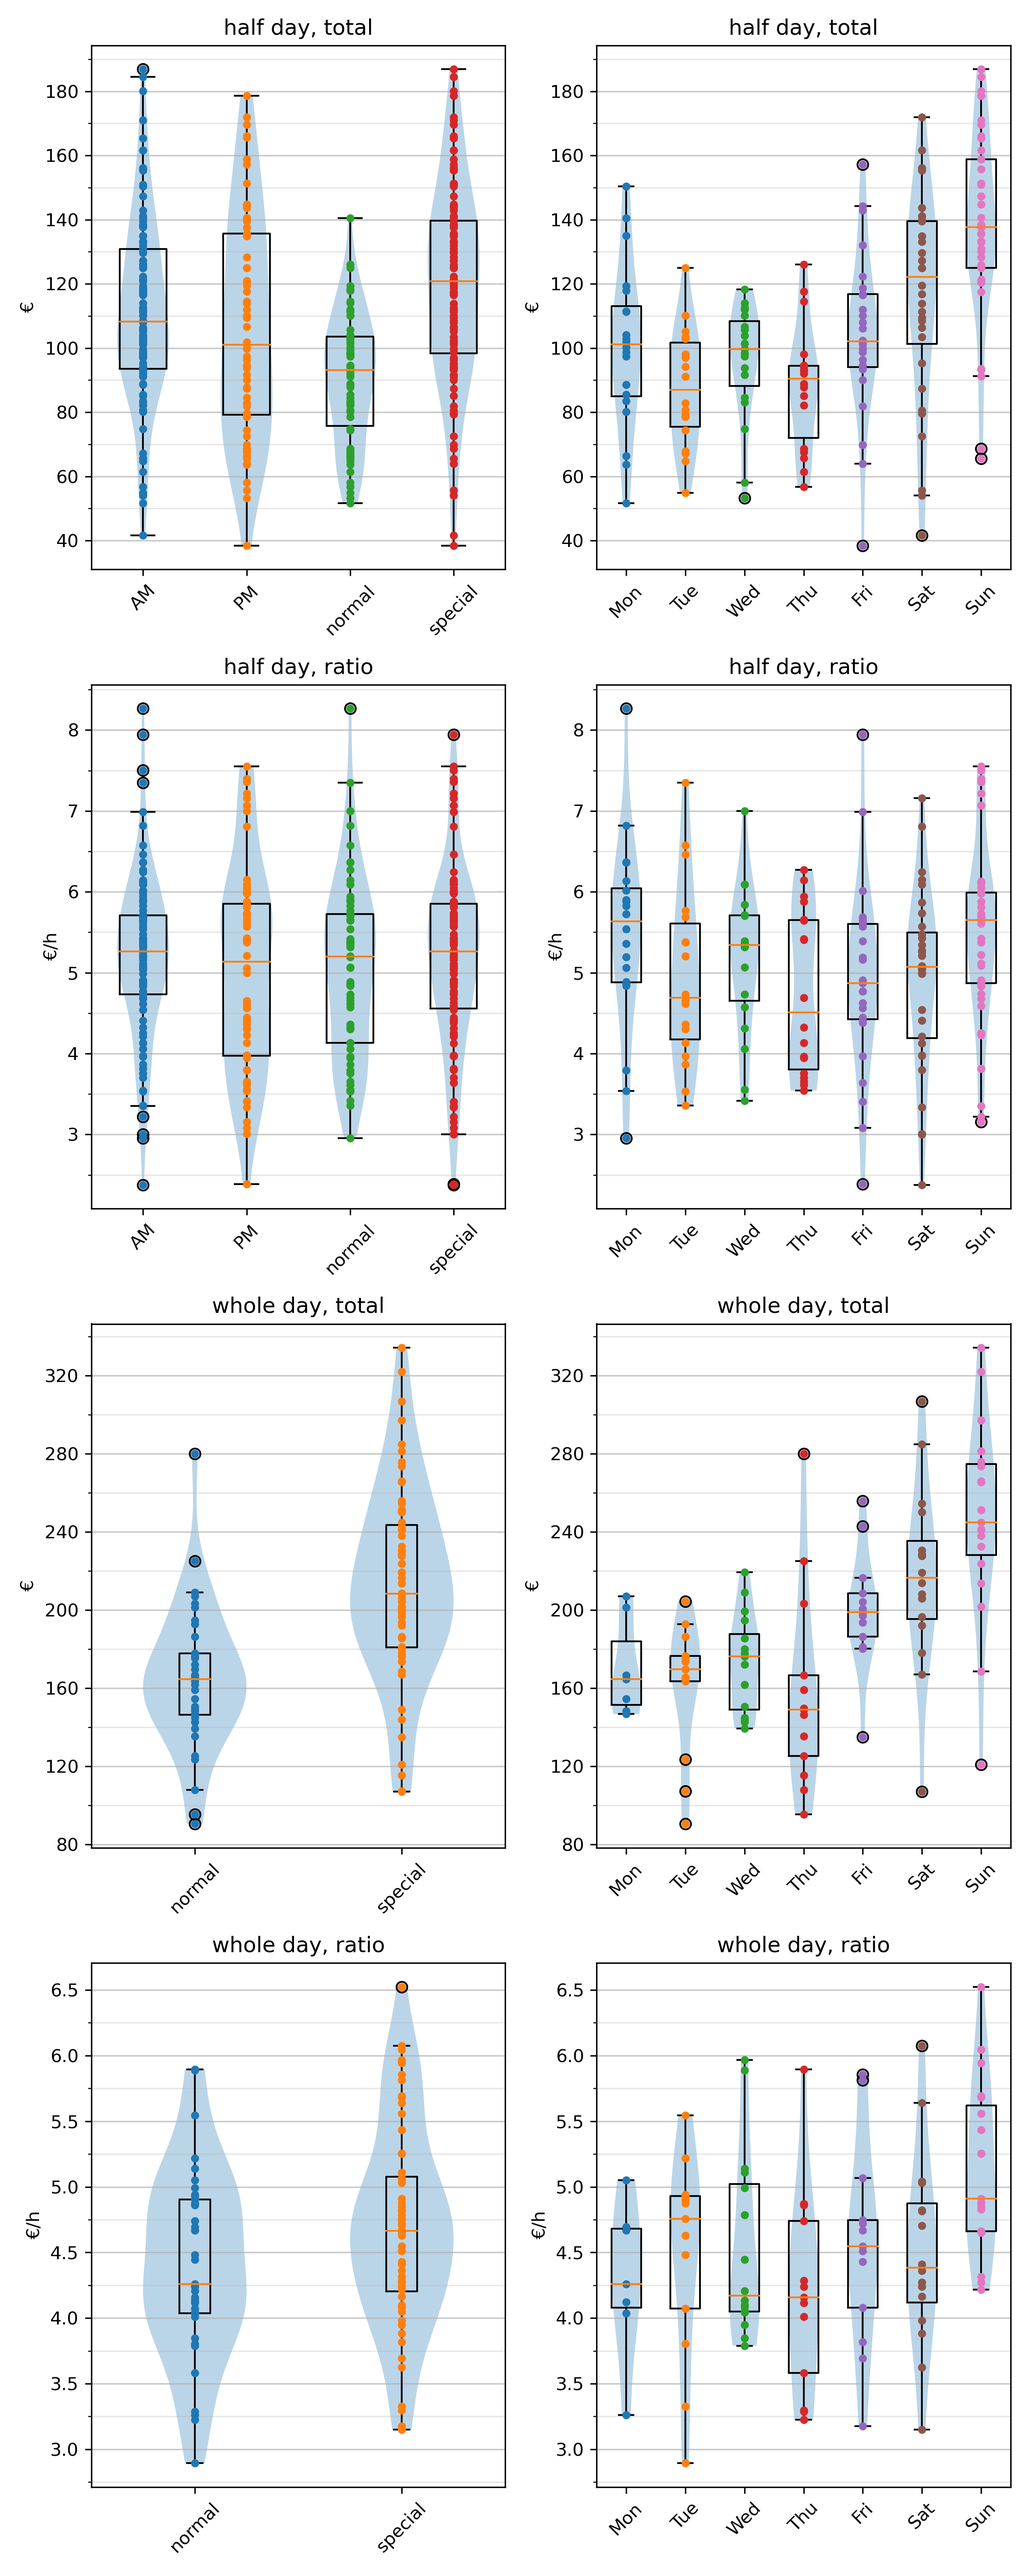
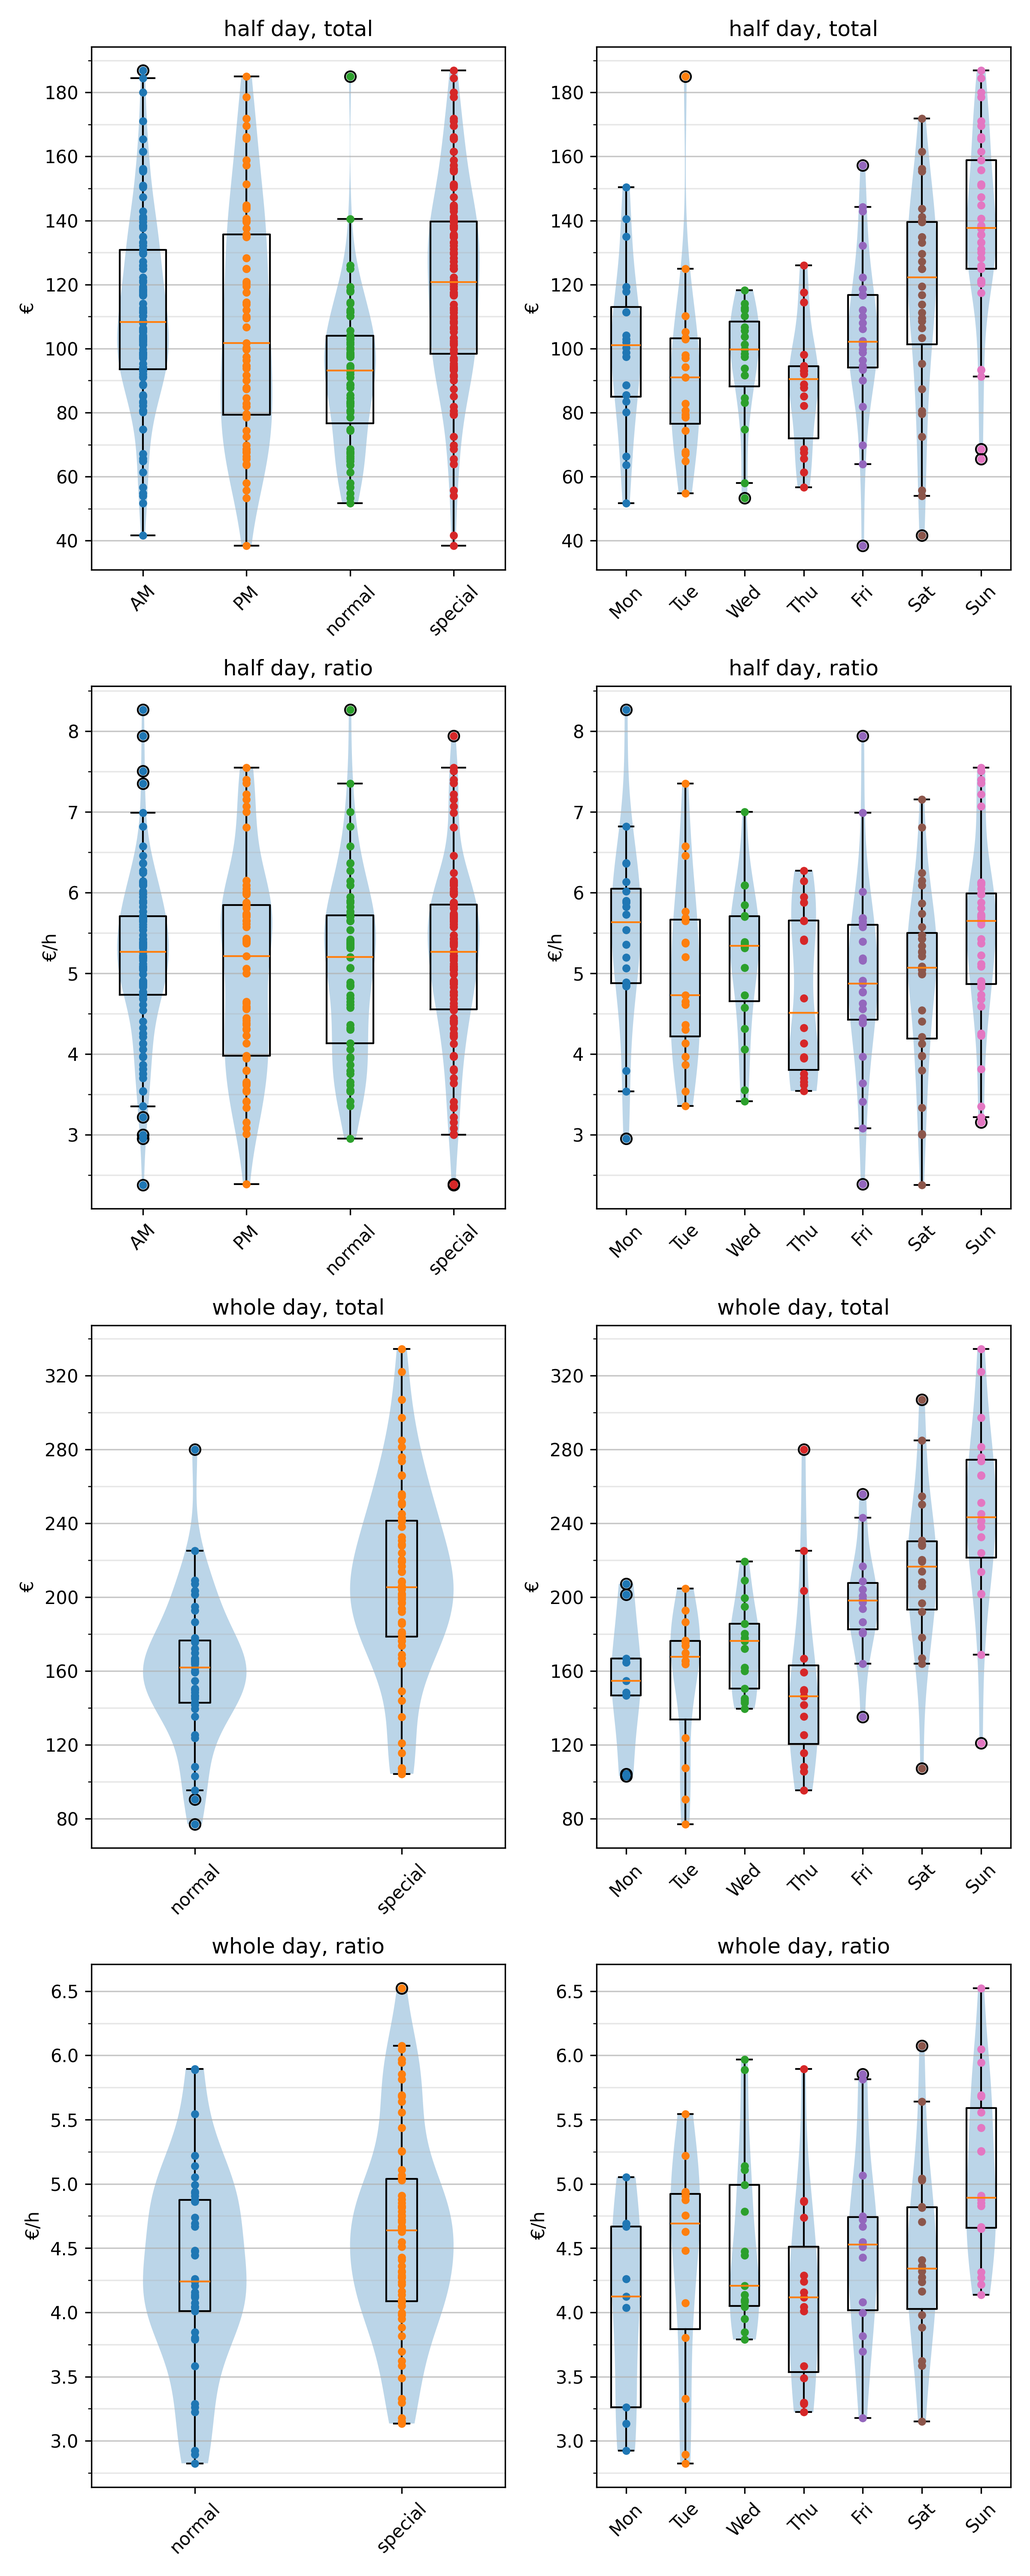
update plot

diff --git a/README.md b/README.md
@@ -1,14 +1,14 @@
-last update: 26.07.2024, Friday, time: 18:28
+last update: 08.08.2024, Thursday, time: 19:31
 # Statistic  
 Special: Holiday in Germany NRW and Friday till Sunday  
-Currency is in euro, ratio is €/h  
+Currency is in euro, ratio is in €/h  
 ## Overview  
                whole                half  
 ------+--------------------+--------------------  
-total   194.661 +/- 50.833   109.657 +/- 31.083  
-ratio     4.583 +/-  0.752     5.137 +/-  1.103  
-bar      86.381 +/- 24.026    45.346 +/- 19.614  
-card    111.510 +/- 36.748    58.058 +/- 26.801  
+total   189.934 +/- 52.350   110.087 +/- 31.510  
+ratio     4.499 +/-  0.780     5.140 +/-  1.101  
+bar      83.589 +/- 25.242    45.450 +/- 19.606  
+card    109.215 +/- 37.216    58.423 +/- 27.151  
   
   
 ## Top three  
@@ -19,8 +19,8 @@ card    111.510 +/- 36.748    58.058 +/- 26.801
 2":|322.02€|6.047€/h|13.08.2023 Sun PM
 3":|306.78€|6.075€/h|14.10.2023 Sat PM
 1":|186.83€|6.126€/h|03.03.2024 Sun AM
-2":|184.50€|6.099€/h|13.08.2023 Sun AM
-3":|180.09€|7.504€/h|28.04.2024 Sun AM
+2":|185.01€|5.649€/h|06.08.2024 Tue PM
+3":|184.50€|6.099€/h|13.08.2023 Sun AM
   
 ### Ratio  
 &nbsp;|ratio|total|timestamp
@@ -38,13 +38,13 @@ card    111.510 +/- 36.748    58.058 +/- 26.801
 ------+--------------------+--------------------  
 ### Normal day  
 ------+--------------------+--------------------  
-total   164.464 +/- 35.588    90.678 +/- 20.180  
-ratio     4.411 +/-  0.703     5.048 +/-  1.092  
+total   160.162 +/- 37.636    92.176 +/- 23.233  
+ratio     4.329 +/-  0.747     5.058 +/-  1.086  
 ------+--------------------+--------------------  
 ### Special day  
 ------+--------------------+--------------------  
-total   213.282 +/- 49.873   120.163 +/- 31.076  
-ratio     4.688 +/-  0.761     5.186 +/-  1.106  
+total   208.428 +/- 51.677   120.163 +/- 31.076  
+ratio     4.605 +/-  0.781     5.186 +/-  1.106  
   
   
 ## Weekday  
@@ -52,56 +52,56 @@ ratio     4.688 +/-  0.761     5.186 +/-  1.106
 ------+--------------------+--------------------  
 ### Monday  
 ------+--------------------+--------------------  
-total:  169.887 +/- 22.826   100.529 +/- 24.673  
-ratio:    4.299 +/-  0.540     5.466 +/-  1.157  
+total:  155.166 +/- 34.115   100.529 +/- 24.673  
+ratio:    4.017 +/-  0.713     5.466 +/-  1.157  
 ------+--------------------+--------------------  
 ### Tuesday  
 ------+--------------------+--------------------  
-total:  161.092 +/- 32.254    87.616 +/- 17.869  
-ratio:    4.490 +/-  0.733     4.962 +/-  1.072  
+total:  155.083 +/- 37.886    92.742 +/- 27.847  
+ratio:    4.371 +/-  0.827     4.998 +/-  1.055  
 ------+--------------------+--------------------  
 ### Wednesday  
 ------+--------------------+--------------------  
-total:  173.336 +/- 23.945    95.758 +/- 17.628  
-ratio:    4.533 +/-  0.679     5.171 +/-  0.874  
+total:  172.551 +/- 23.442    95.758 +/- 17.628  
+ratio:    4.529 +/-  0.659     5.171 +/-  0.874  
 ------+--------------------+--------------------  
 ### Thursday  
 ------+--------------------+--------------------  
-total:  158.356 +/- 49.323    88.162 +/- 18.697  
-ratio:    4.197 +/-  0.738     4.760 +/-  0.982  
+total:  153.712 +/- 47.871    88.162 +/- 18.697  
+ratio:    4.140 +/-  0.710     4.760 +/-  0.982  
 ------+--------------------+--------------------  
 ### Friday  
 ------+--------------------+--------------------  
-total:  200.105 +/- 28.469   104.350 +/- 24.752  
-ratio:    4.548 +/-  0.736     4.922 +/-  1.130  
+total:  197.510 +/- 28.984   104.350 +/- 24.752  
+ratio:    4.509 +/-  0.724     4.922 +/-  1.130  
 ------+--------------------+--------------------  
 ### Saturday  
 ------+--------------------+--------------------  
-total:  216.953 +/- 45.396   116.059 +/- 31.648  
-ratio:    4.513 +/-  0.712     4.938 +/-  1.082  
+total:  214.192 +/- 44.507   116.059 +/- 31.648  
+ratio:    4.451 +/-  0.704     4.938 +/-  1.082  
 ------+--------------------+--------------------  
 ### Sunday  
 ------+--------------------+--------------------  
-total:  247.056 +/- 48.834   138.032 +/- 28.178  
-ratio:    5.138 +/-  0.631     5.495 +/-  1.090  
+total:  244.781 +/- 48.619   138.032 +/- 28.178  
+ratio:    5.088 +/-  0.653     5.495 +/-  1.090  
   
   
 ## Half day  
 ### AM to PM  
                  AM                   PM  
 ------+--------------------+--------------------  
-total   111.504 +/- 28.855   106.482 +/- 34.347  
-ratio     5.200 +/-  1.006     5.028 +/-  1.245  
+total   111.504 +/- 28.855   107.690 +/- 35.426  
+ratio     5.200 +/-  1.006     5.038 +/-  1.237  
   
 ### Frequency  
-total: 174, AM: 110, PM: 64  
-███████████▍ 20, 11.5%  
+total: 175, AM: 110, PM: 65  
+███████████▍ 20, 11.4%  
+██████████▊ 19, 10.9%  
+██████████▊ 19, 10.9%  
 ██████████▎ 18, 10.3%  
-██████████▉ 19, 10.9%  
-██████████▎ 18, 10.3%  
-██████████████▉ 26, 14.9%  
-██████████████████▍ 32, 18.4%  
-███████████████████████▌ 41, 23.6%  
+██████████████▊ 26, 14.9%  
+██████████████████▎ 32, 18.3%  
+███████████████████████▍ 41, 23.4%  
   
   
 ## Plot  
